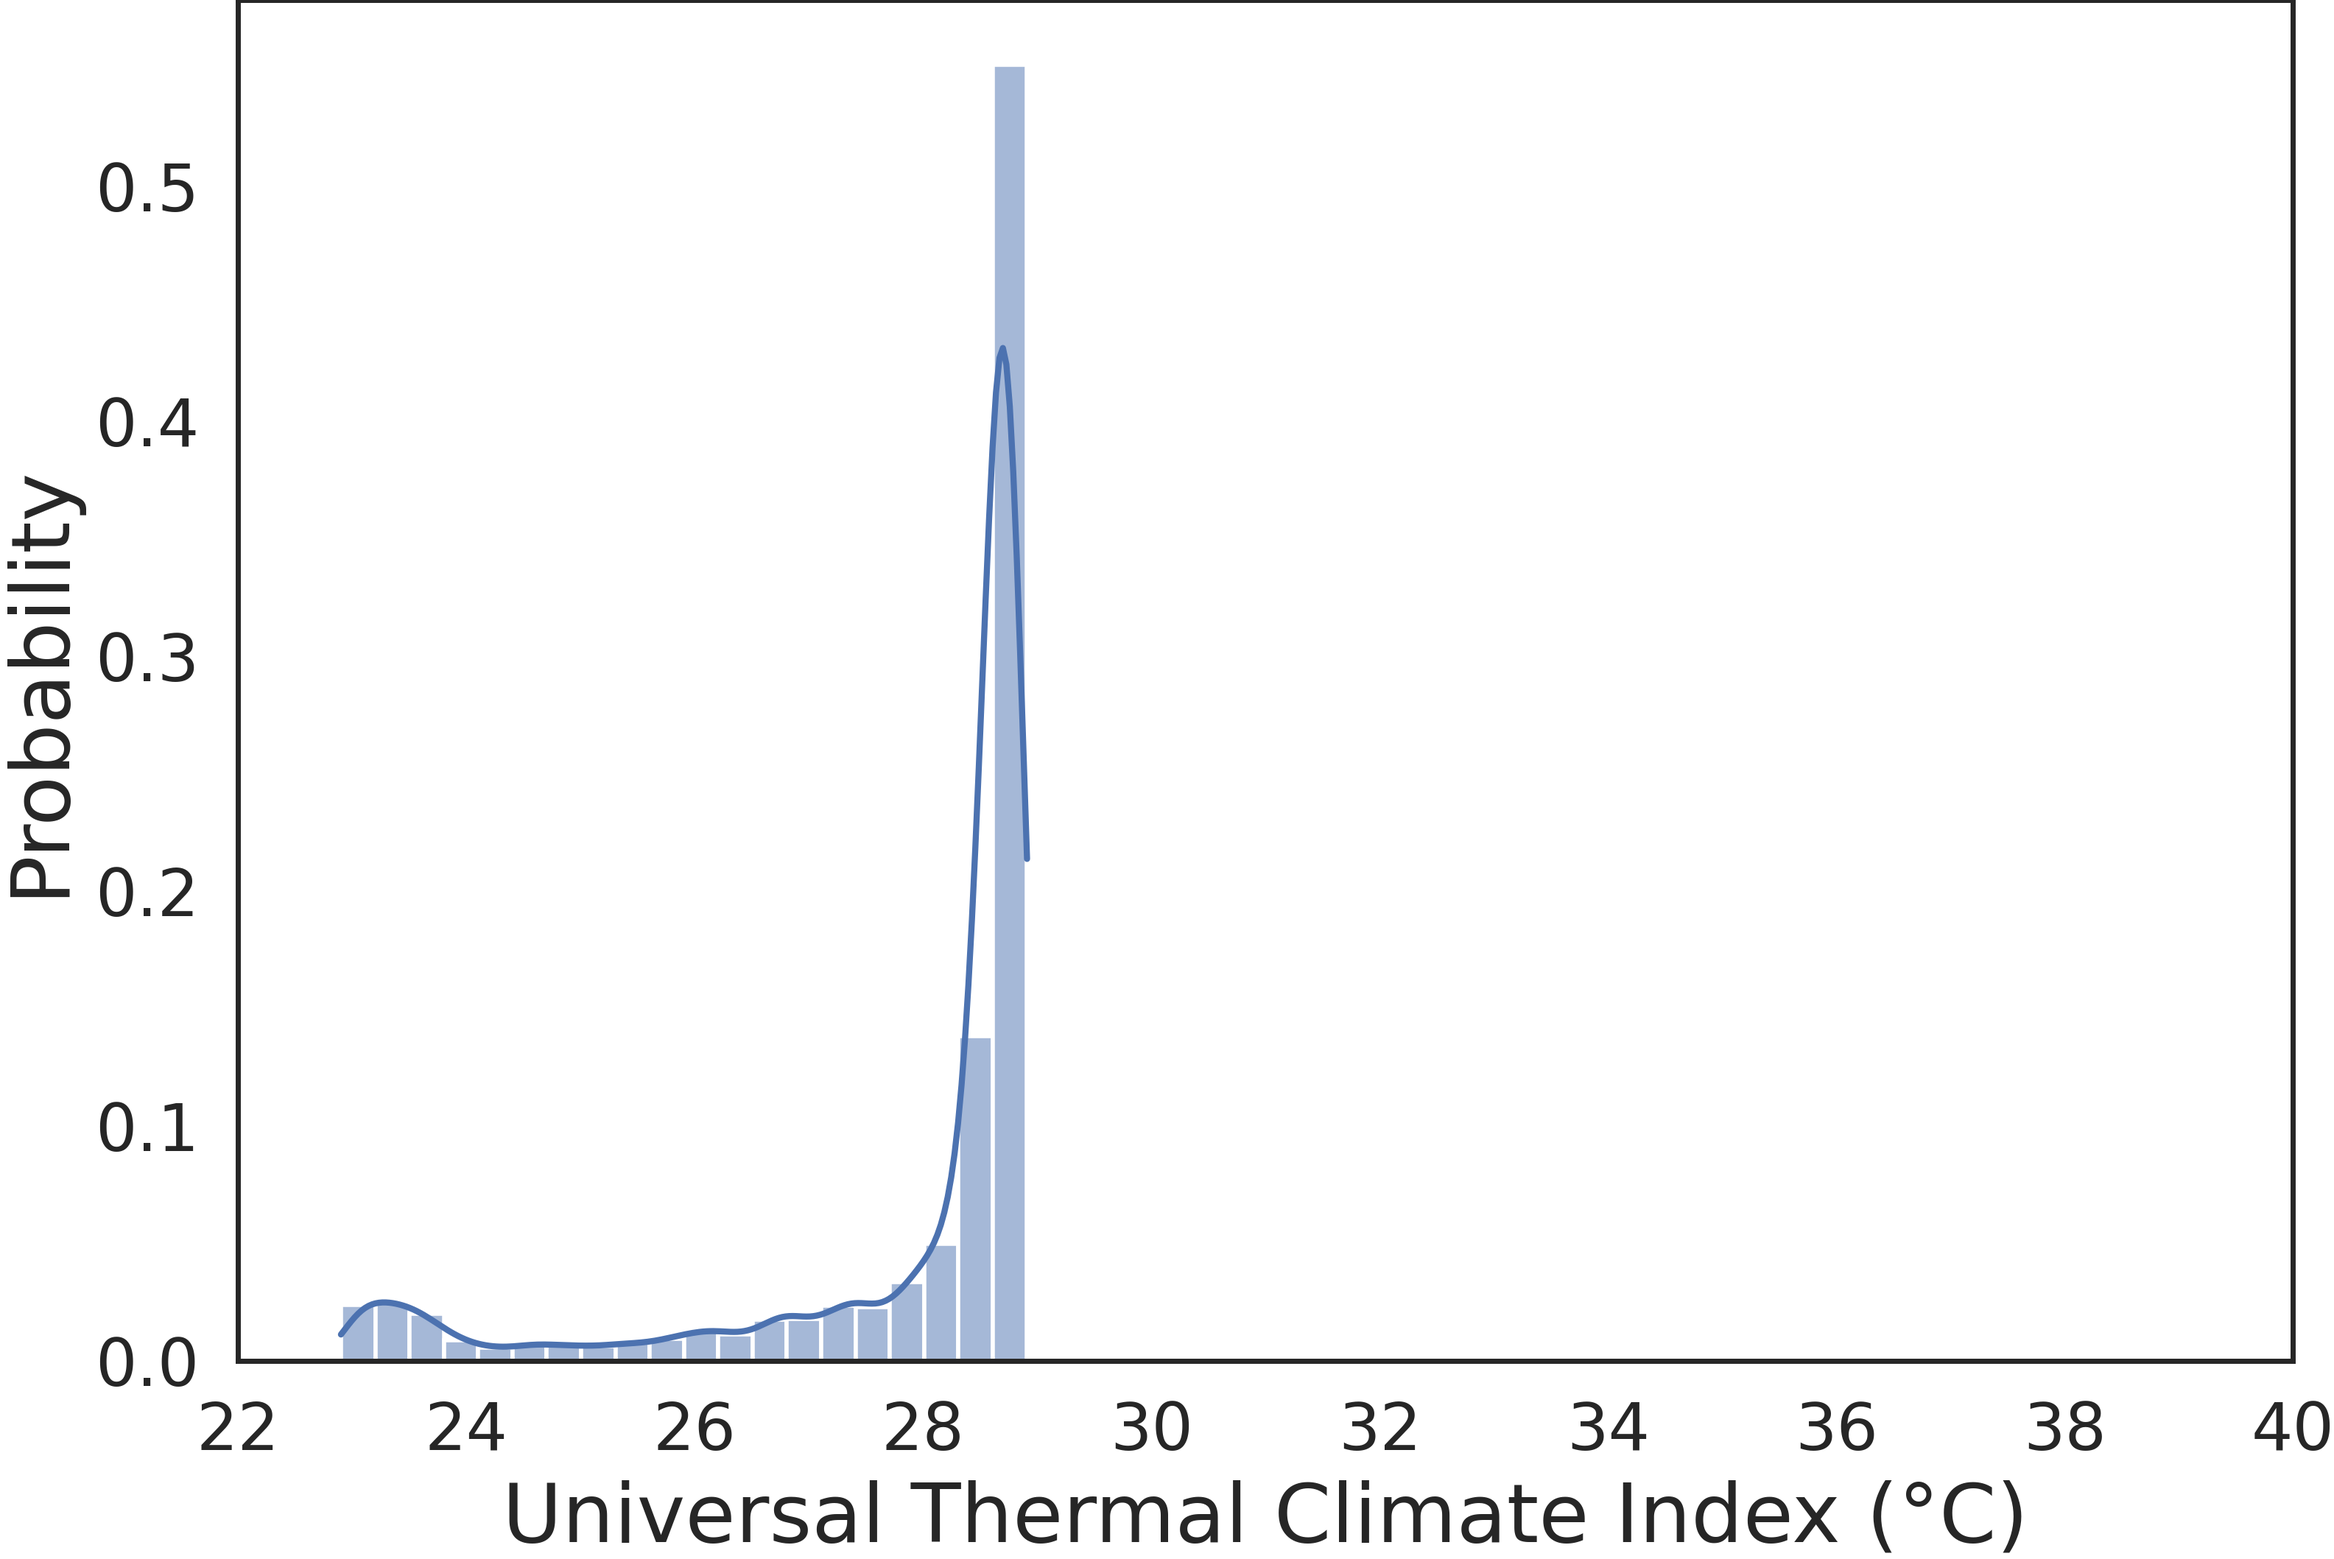
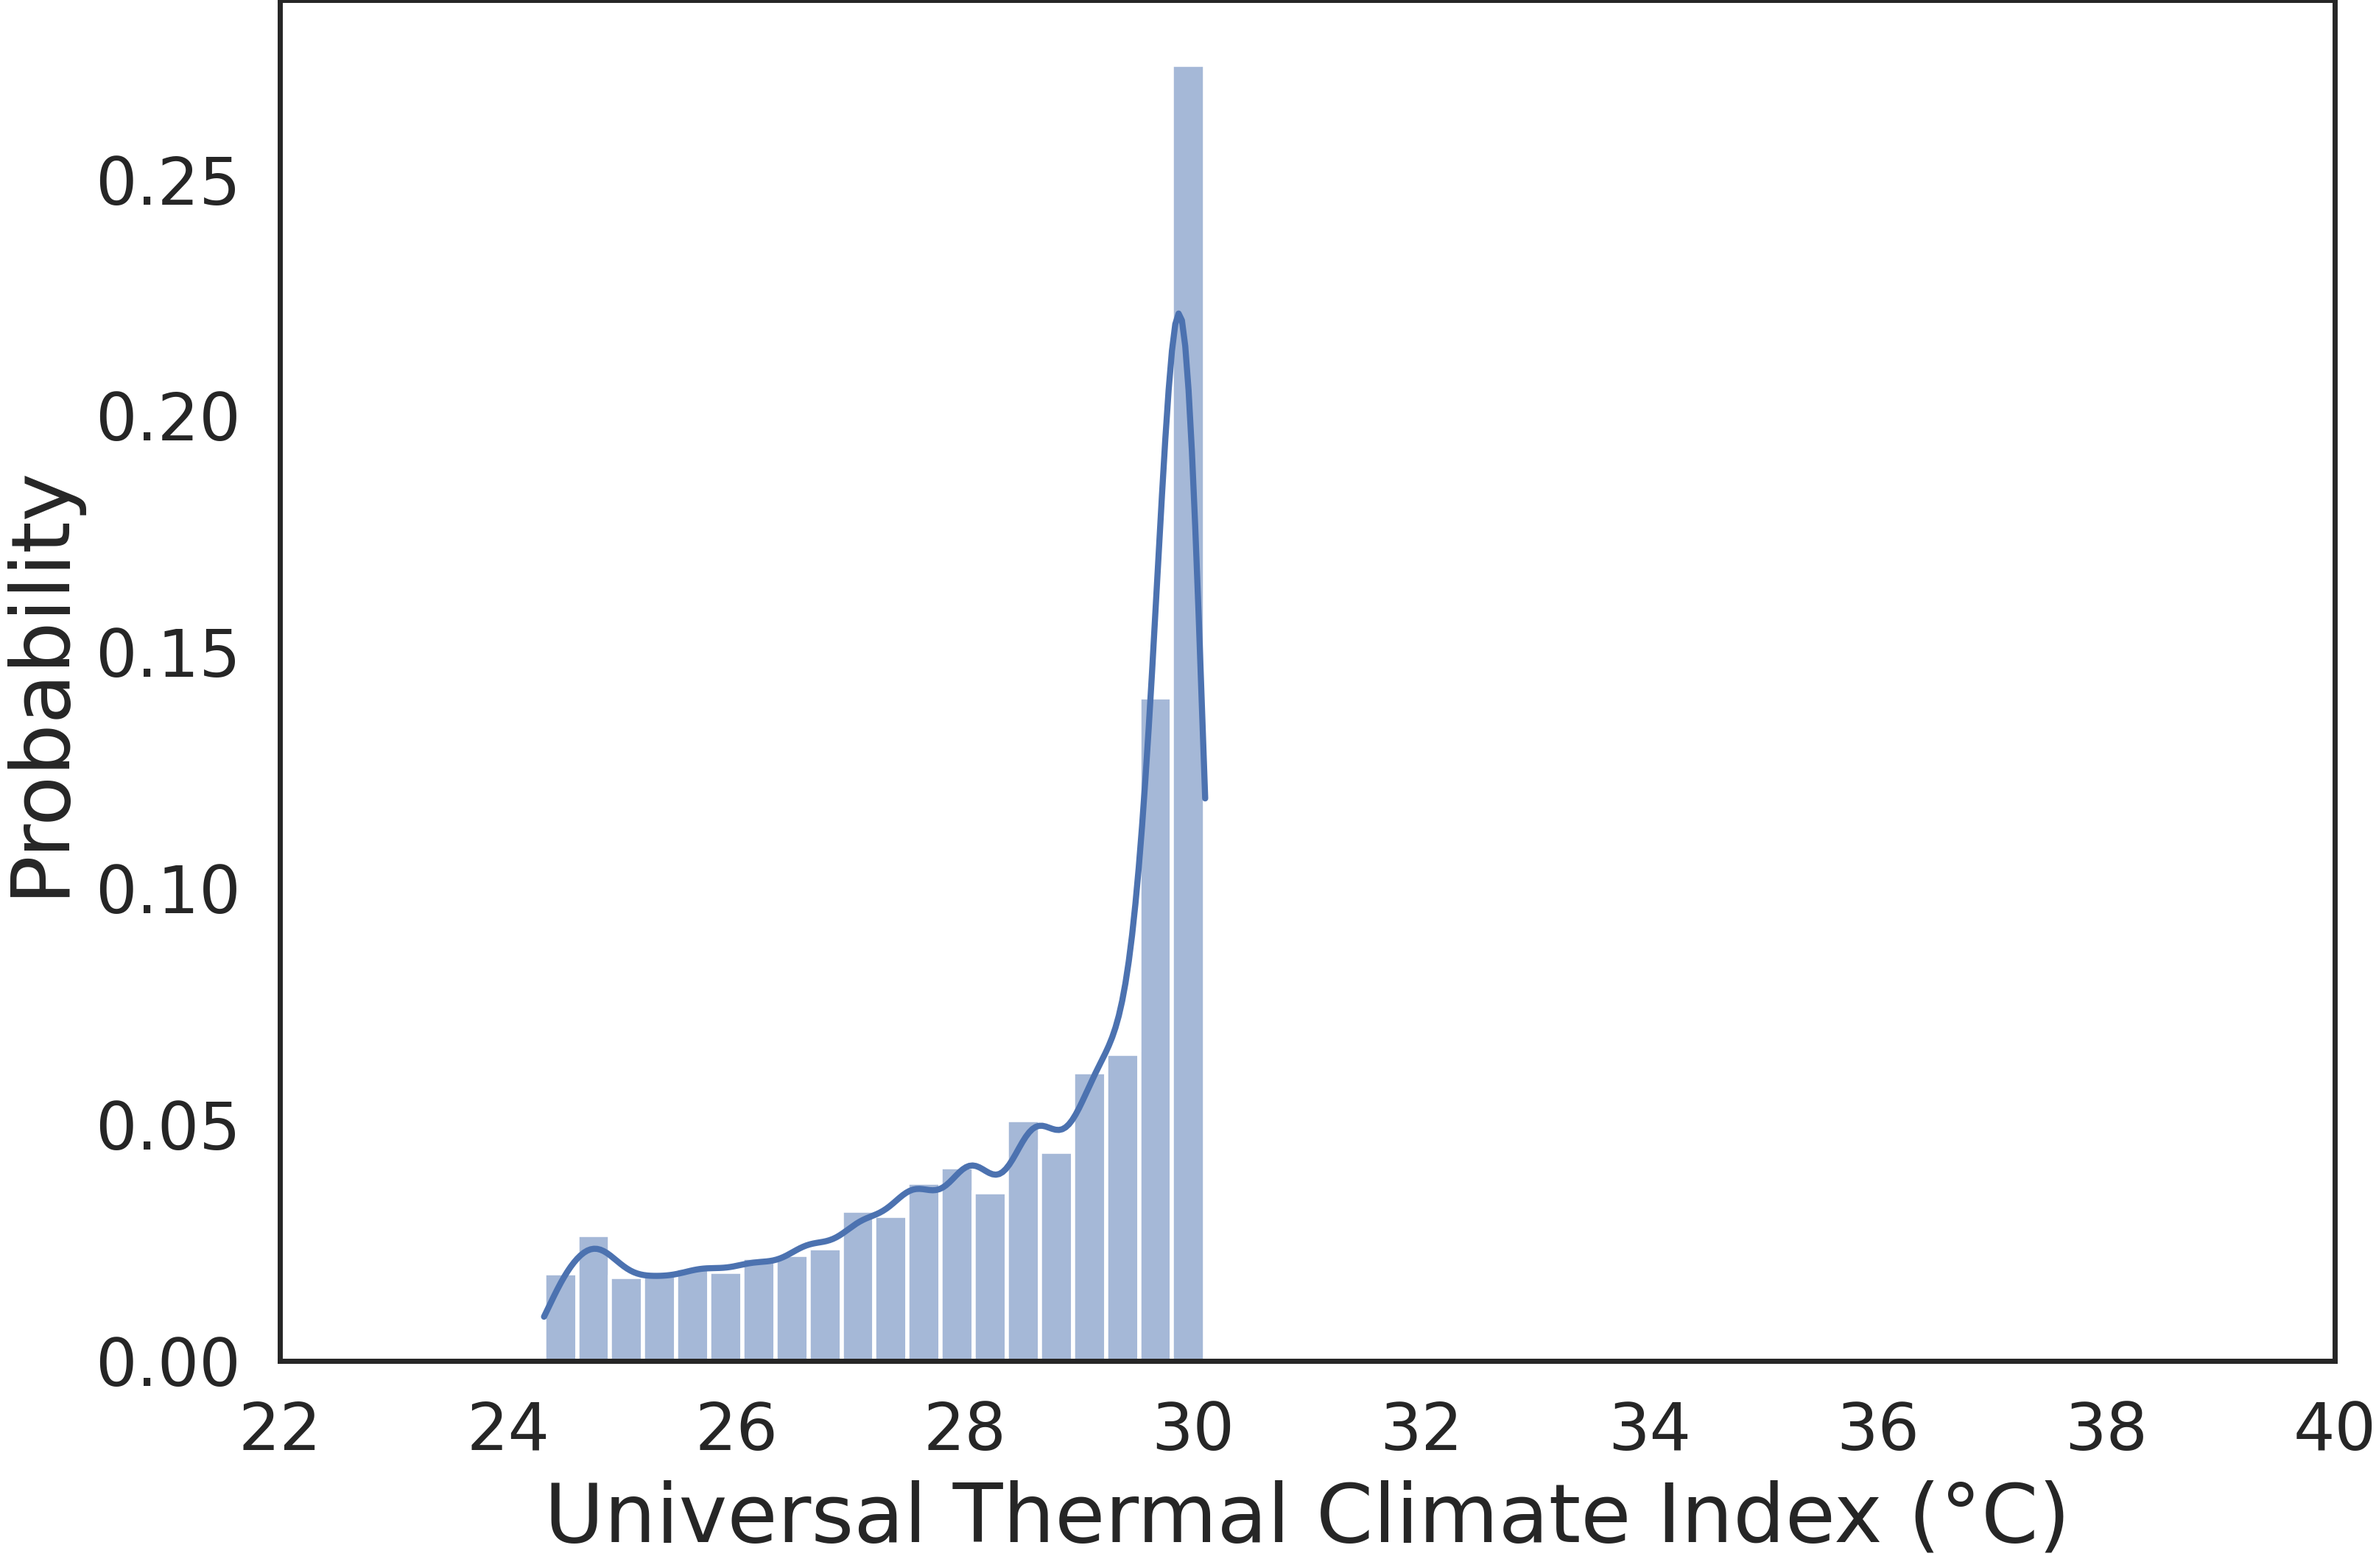
update data for chicago

Changed region(s): [[0.0312, 0.0, 0.8747, 0.9976], [0.9684, 0.9041, 0.9997, 0.9353], [0.8747, 0.9041, 0.906, 0.9353]]

diff --git a/js/map.js b/js/map.js
@@ -100,7 +100,8 @@ citycoords['miami'] = [25.777476201525072, -80.21834080668762, 11, ['<34', '34-4
 citycoords['nashville'] = [36.16613542187021, -86.78318605040803, 10, ['<35', '35-40', '40-48', '48-55', '55+'], ['<32', '32-34', '34-36', '36-37', '37+']];
 citycoords['los angeles'] = [34.07483852023736, -118.32892140164431, 9, ['<32', '32-40', '40-49', '49-55', '55+'], ['<27', '27-29', '29-31', '31-32', '32+']];
 citycoords['san francisco'] = [37.76532315179079, -122.44391726879564, 11, ['<26', '26-32', '32-38', '38-44', '44+'], ['<21', '21-22', '22-24', '24-25', '25+']];
-citycoords['chicago'] = [41.854891400317754, -87.67040202741047, 10, ['<29', '29-35', '35-43', '43-49', '49+'], ['<23', '23-25', '25-27', '27-28', '28+']];
+citycoords['chicago'] = [41.854891400317754, -87.67040202741047, 10, ['<30', '30-37', '37-44', '44-49', '49+'], ['<24', '24-26', '26-28', '28-29', '29+']];
+
 citycoords['atlanta'] = [33.7637757252088, -84.42633326861935, 11, ['<35', '35-40', '40-47', '47-53', '53+'], ['<32', '32-33', '33-35', '35-37', '37+']];
 citycoords['houston'] = [29.748829215846698, -95.39474993214351, 10, ['<37', '37-43', '43-51', '51-56', '56+'], ['<34', '34-35', '35-37', '37-38', '38+']];
 citycoords['dallas'] = [32.81421602557406, -96.79954559171003, 10, ['<37', '37-44', '44-51', '51-57', '57+'], ['<34', '34-35', '35-37', '37-38', '38+']];

diff --git a/index.html b/index.html
@@ -308,7 +308,7 @@
                 <table style="width:75%; margin-left:auto;margin-right:auto;">
                   <tr>
                     <td>Mean value: </td>
-                    <td>27.9 <span>&#176;C</span></td>
+                    <td>28.5 <span>&#176;C</span></td>
                   </tr>
                   <tr>
                     <td>Std. Deviation</td>
